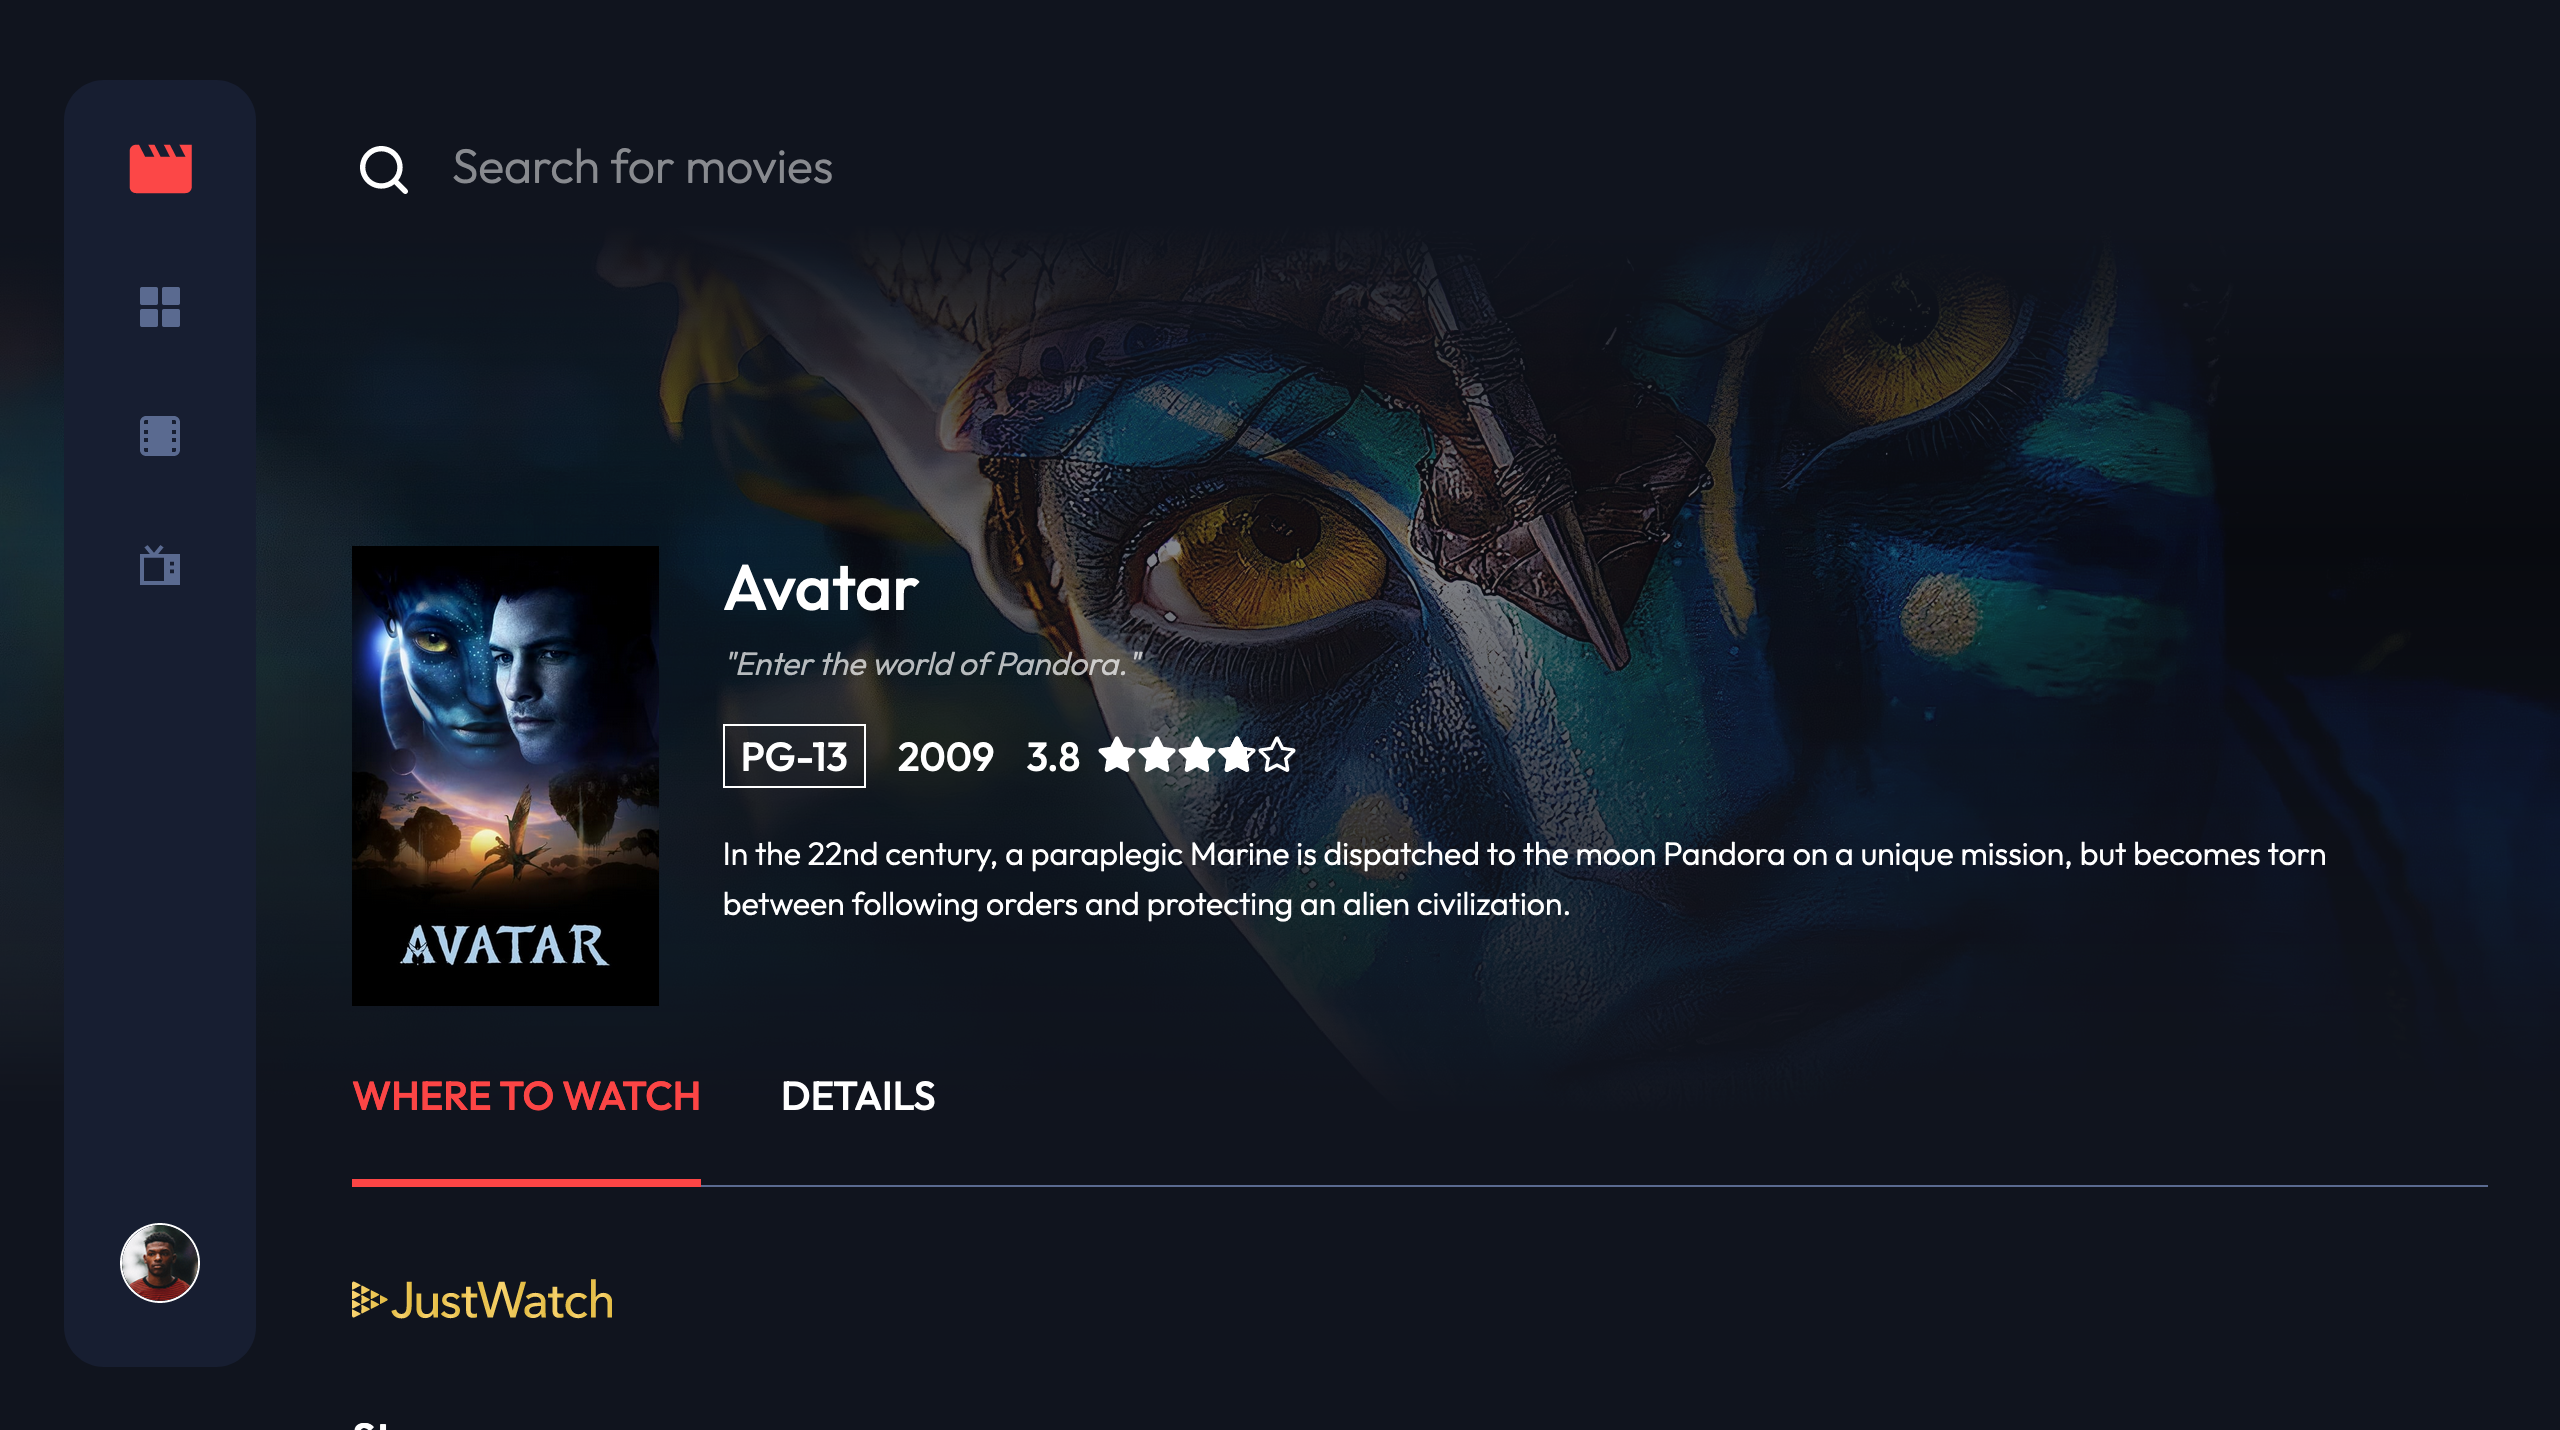
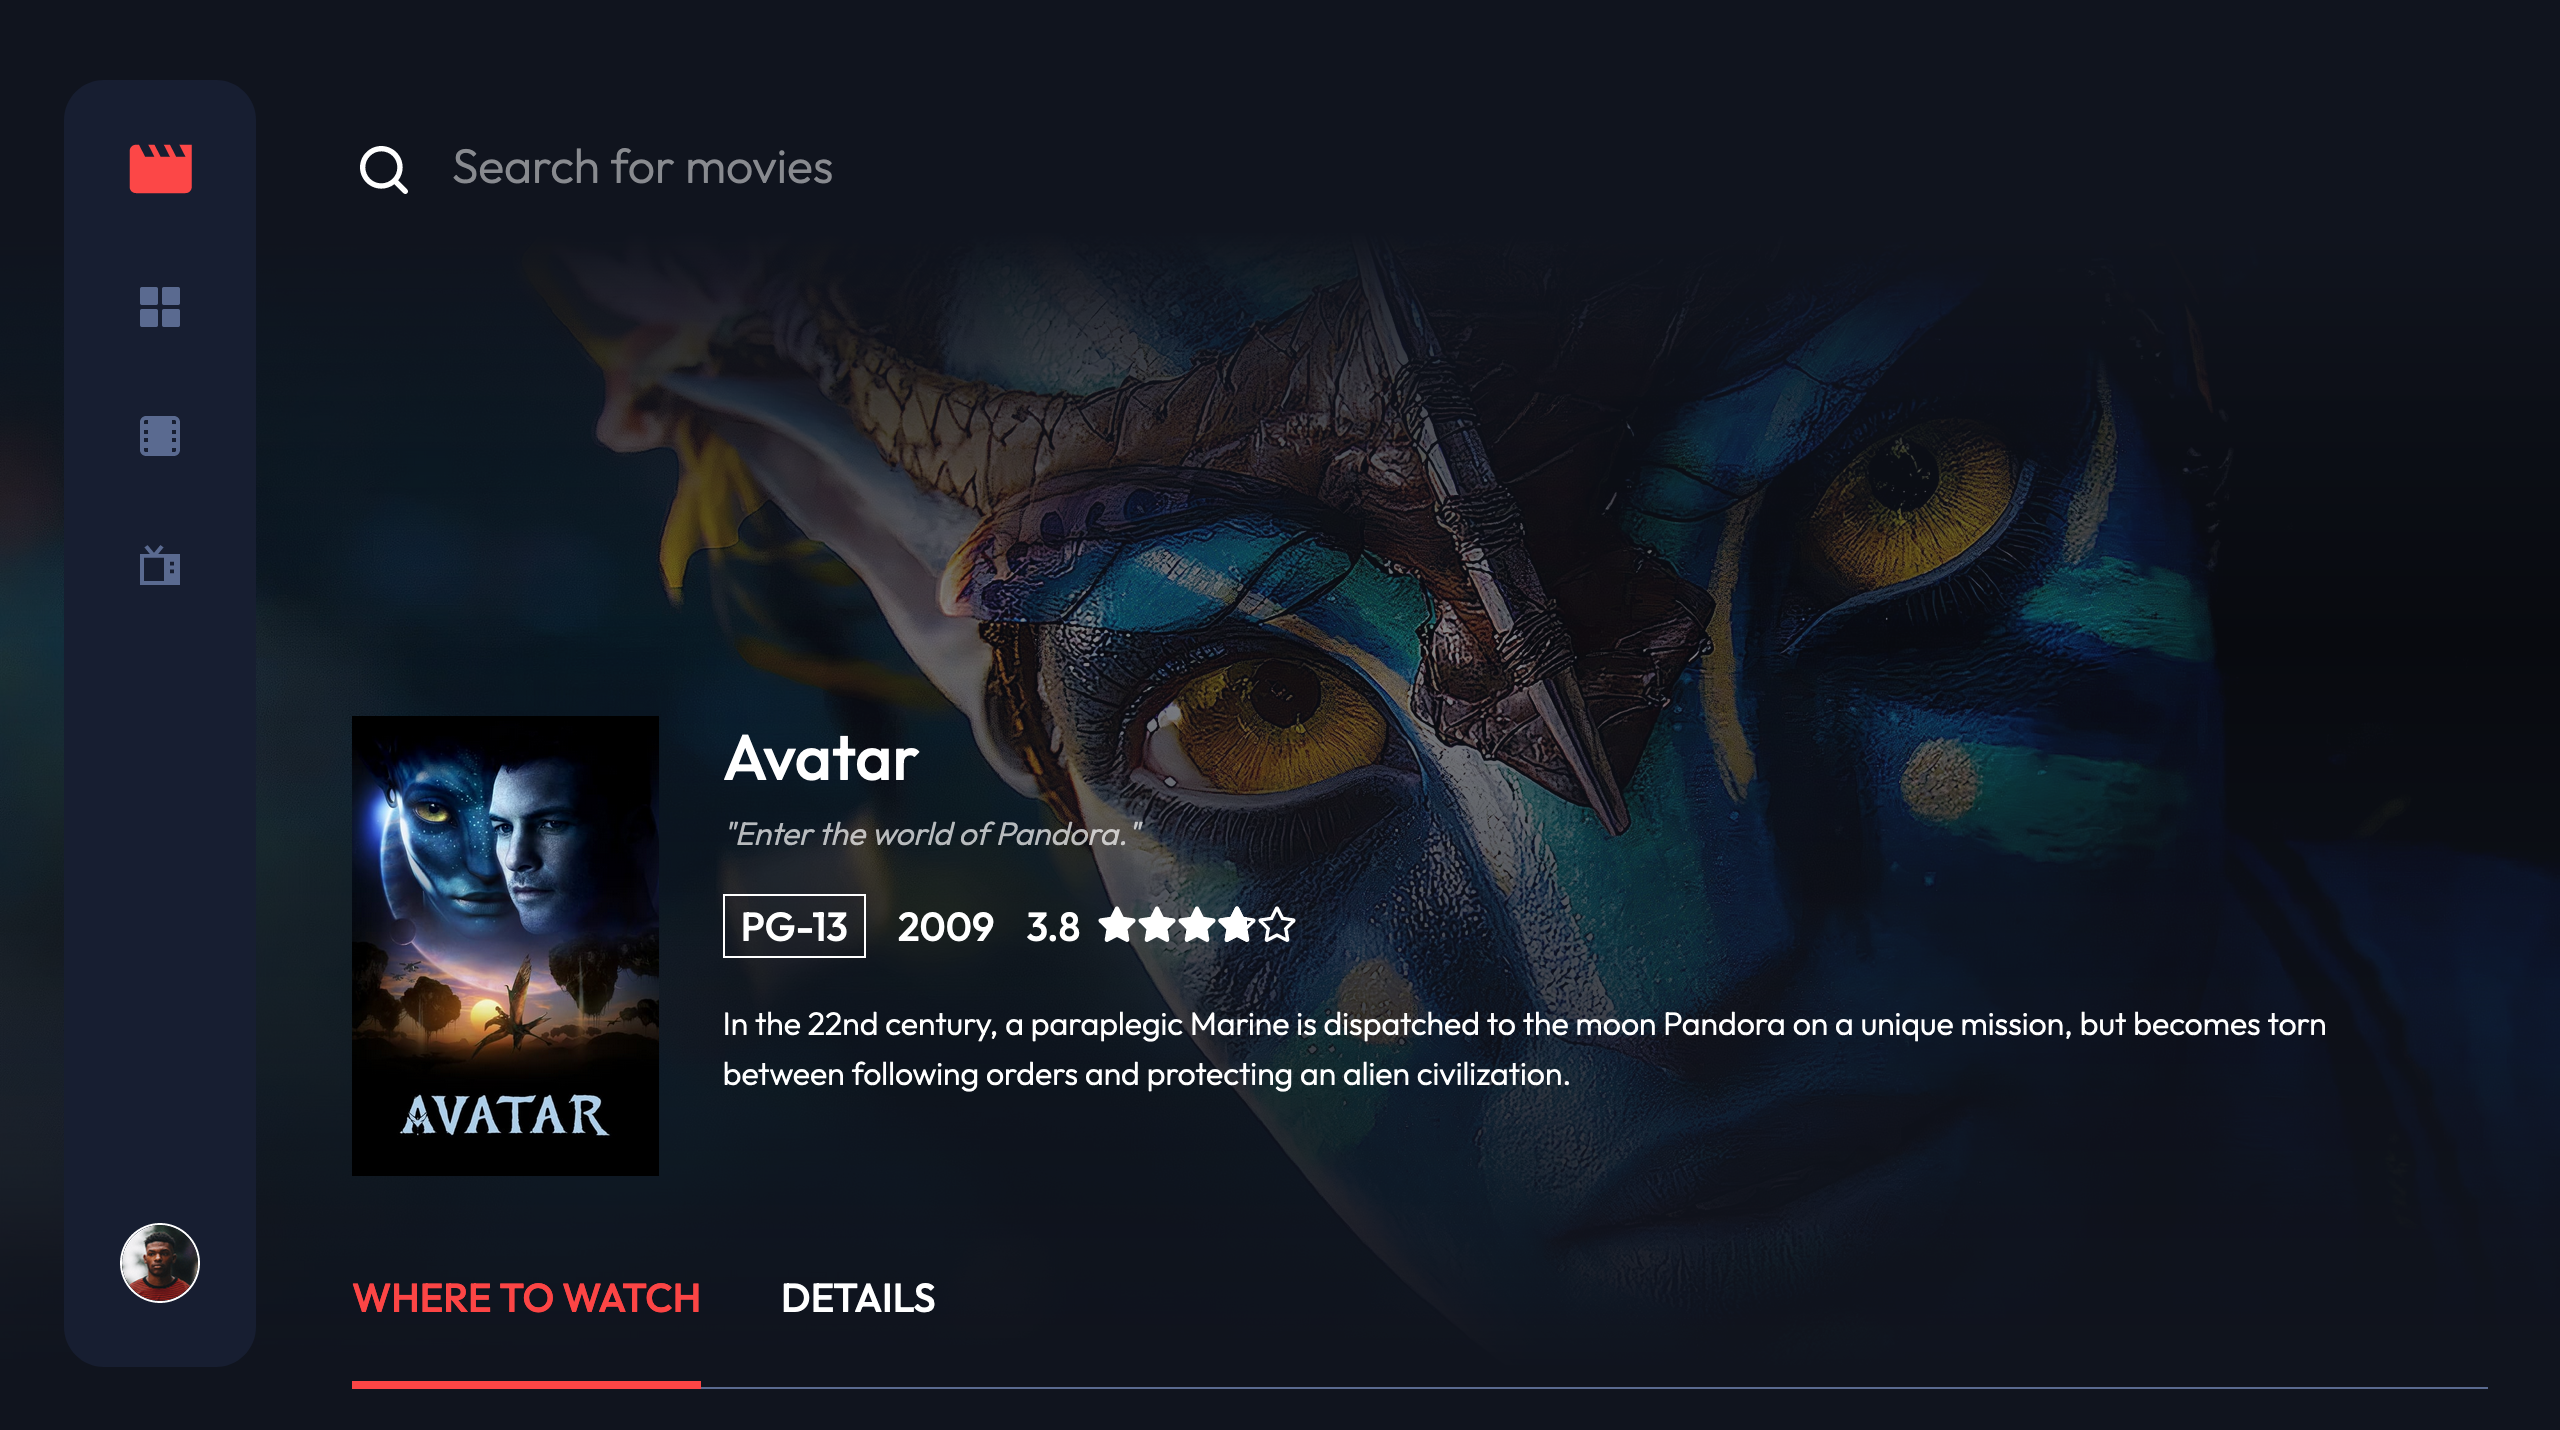
adjust background sizes

diff --git a/components/Hero/Hero.module.css b/components/Hero/Hero.module.css
@@ -47,13 +47,13 @@
     height: 470px;
   }
 }
-@media (min-width: 48em) {
+@media (min-width: 64em) {
   .imageContainer {
-    height: 370px;
+    height: 550px;
   }
 
   .overlay {
-    height: 390px;
+    height: 570px;
   }
 }
 
@@ -71,20 +71,10 @@
   }
 
   .imageContainer {
-    height: 550px;
+    height: 100vh;
   }
 
   .overlay {
-    height: 570px;
-  }
-}
-
-@media (min-width: 90em) {
-  .imageContainer {
-    height: 700px;
-  }
-
-  .overlay {
-    height: 720px;
+    height: 102vh;
   }
 }

diff --git a/components/HeroContent/HeroContent.module.css b/components/HeroContent/HeroContent.module.css
@@ -91,7 +91,7 @@
     flex-direction: row;
     align-items: flex-start;
     gap: 2rem;
-    bottom: 10rem;
+    bottom: 15rem;
     margin: 4.15rem 2.25rem 0 11rem;
     width: unset;
     left: 0;
@@ -129,7 +129,7 @@
 
 @media (min-width: 90em) {
   .container {
-    bottom: 2rem;
+    bottom: 20rem;
   }
 
   .poster {

diff --git a/components/Details/Details.jsx b/components/Details/Details.jsx
@@ -18,7 +18,7 @@ const Details = ({
           <div className={styles.heading}>
             {director ? "director" : "network"}
           </div>
-          <div className={styles.description}>
+          <div className={styles.director}>
             {director ? director : `${network}`}
           </div>
         </div>

diff --git a/components/Tablist/Tablist.module.css b/components/Tablist/Tablist.module.css
@@ -28,7 +28,7 @@
     margin: 0 2.25rem 0 11rem;
     width: unset;
     position: relative;
-    top: -8rem;
+    top: -12rem;
     z-index: 5;
   }
 
@@ -39,6 +39,6 @@
 
 @media (min-width: 90em) {
   .container {
-    top: 0;
+    top: -18rem;
   }
 }

diff --git a/components/Suggested/Suggested.module.css b/components/Suggested/Suggested.module.css
@@ -179,7 +179,7 @@
     margin: 0;
     width: 100%;
     position: relative;
-    top: -6rem;
+    top: -10rem;
   }
 
   .heading {
@@ -212,7 +212,7 @@
 
 @media (min-width: 90em) {
   .container {
-    top: 2.5rem;
+    top: -15rem;
   }
 }
 

diff --git a/components/Footer/Footer.module.css b/components/Footer/Footer.module.css
@@ -37,6 +37,6 @@
 }
 @media (min-width: 96em) {
   .footer {
-    margin: 5rem 2.25rem 0 11rem;
+    margin: 0rem 2.25rem 0 11rem;
   }
 }
